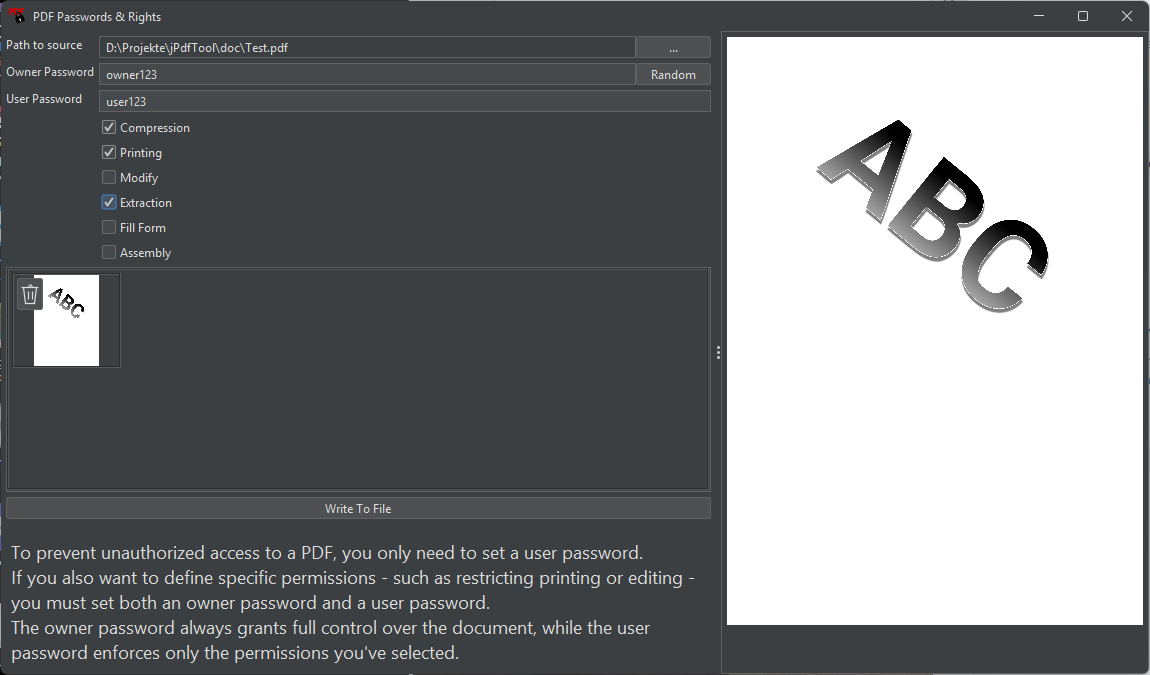
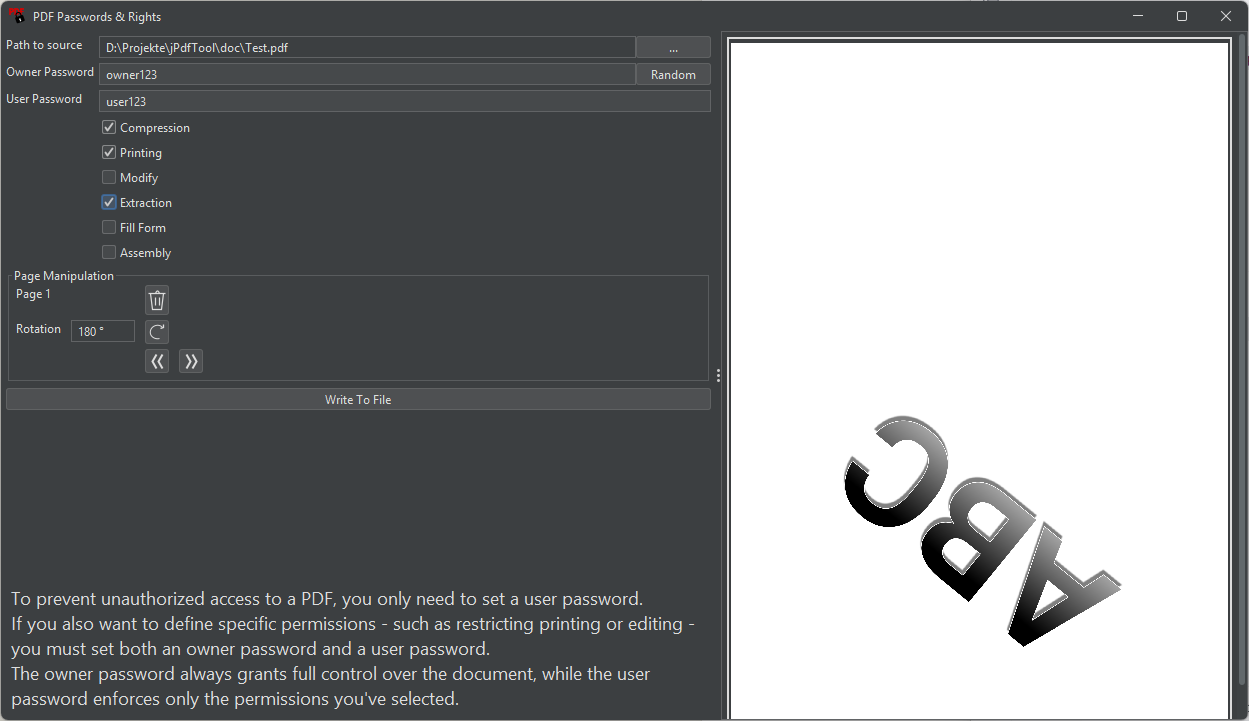
Updated docu

diff --git a/README.md b/README.md
@@ -34,8 +34,8 @@ Toggle compression to optimize file size.
 Permissions only take effect when both owner and user passwords are set.<br>
 The UI automatically disables permission checkboxes unless both passwords are provided.
 
-### 🧹 Remove Pages
-Remove pages.
+### 🧹 Remove and Rearrange Pages
+Remove pages and changes the order of pages.
 
 ### 🔓 Load Protected PDFs
 
@@ -48,9 +48,9 @@ This password input is masked and will not be shown in the UI afterward.
 Saves the modified PDF with the updated settings applied.
 
 ## 🛠 TODOs
-1. Implement page rearrangement functionality
-2. Add support for merging multiple PDF files (verify PDFBox capabilities for that)
-3. Enable modification of additional document properties
+
+1. Add support for merging multiple PDF files (verify PDFBox capabilities for that)
+2Enable modification of additional document properties
 
 
 ![Screenshot](doc/Screenshot%20Release1.1.png)
